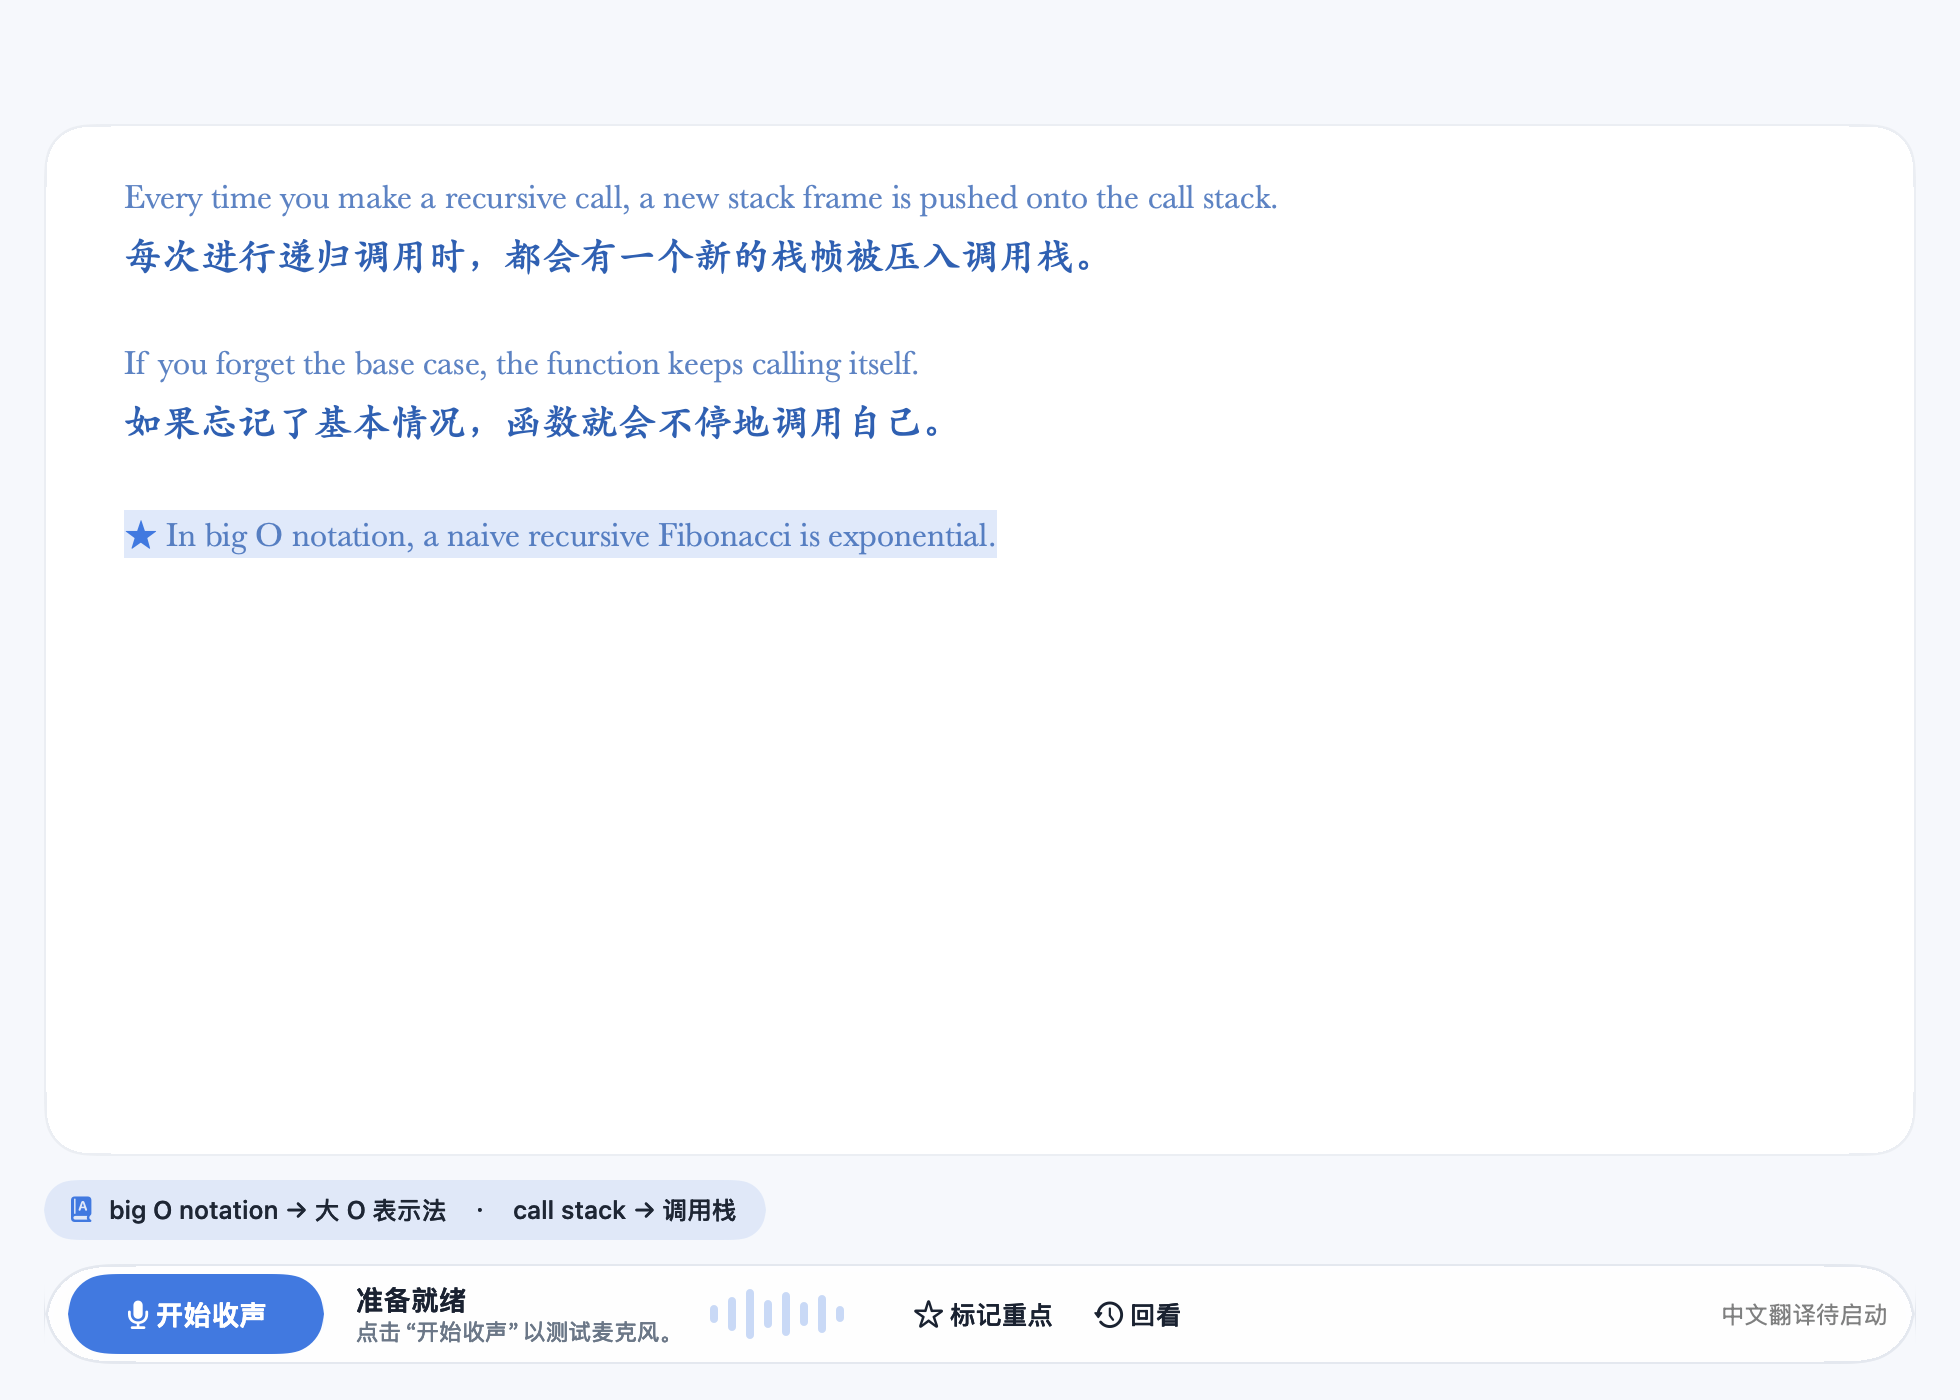
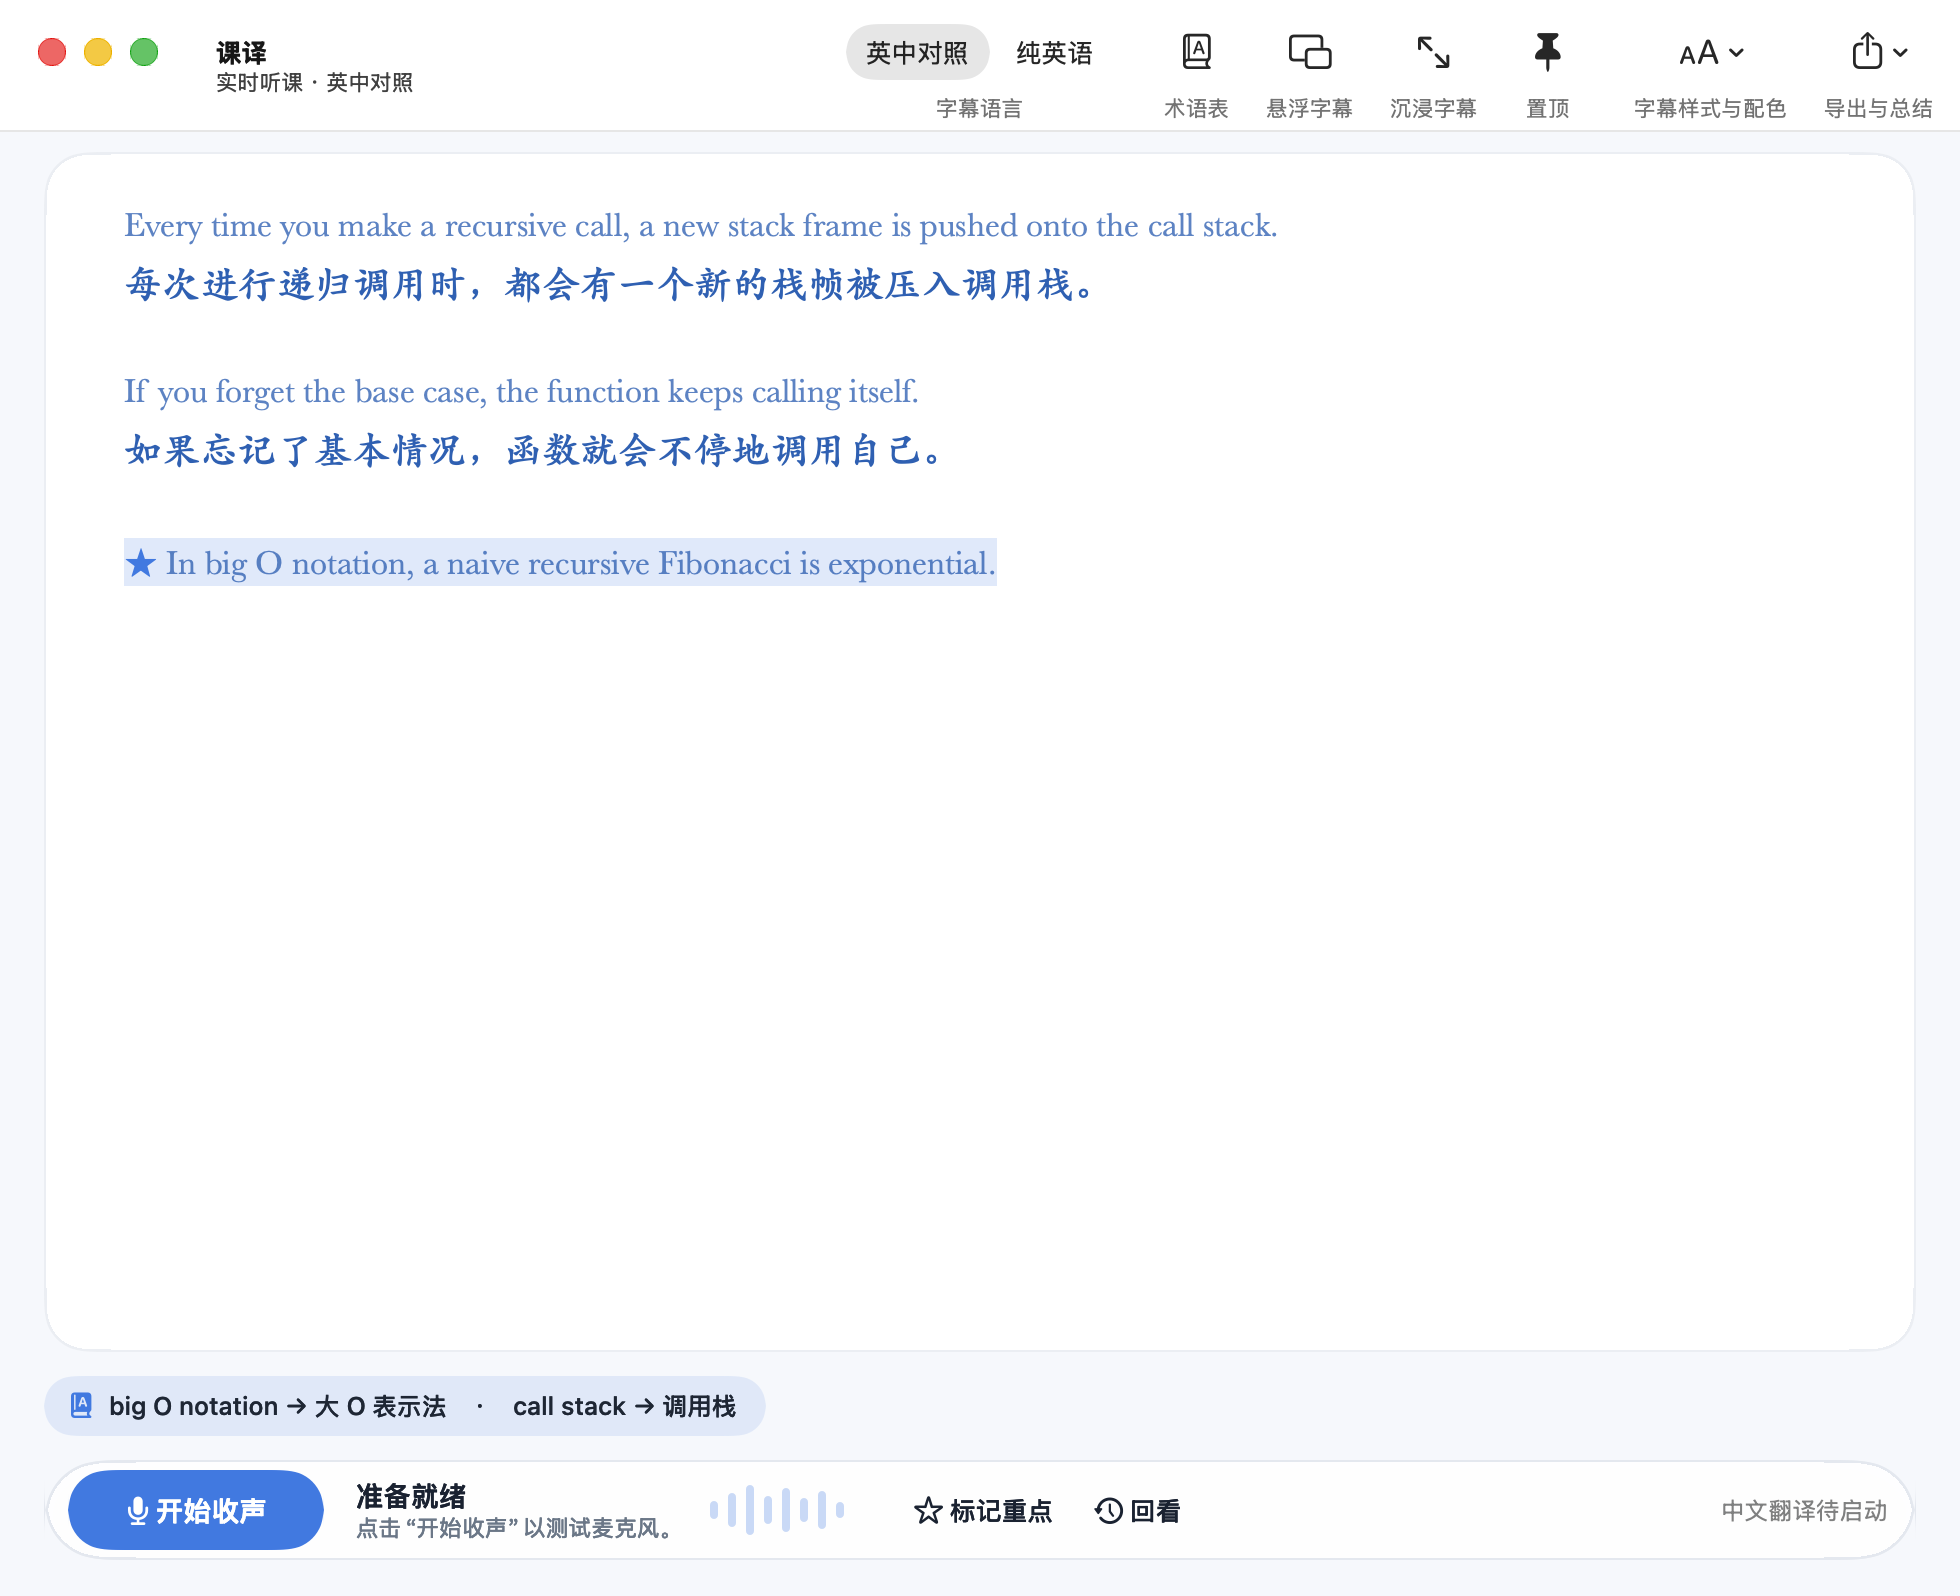
修复主窗口顶部栏不显示：恢复标准标题栏（红黄绿按钮）与工具栏，工具栏显示文字标签；置顶按钮只显示图标

diff --git a/Sources/Main.swift b/Sources/Main.swift
@@ -233,11 +233,11 @@ final class AppDelegate: NSObject, NSApplicationDelegate, NSWindowDelegate, NSMe
 
     private func makeWindow() {
         window = NSWindow(contentRect: NSRect(x: 0, y: 0, width: 980, height: 700),
-                          styleMask: [.titled, .closable, .miniaturizable, .resizable, .fullSizeContentView],
+                          styleMask: [.titled, .closable, .miniaturizable, .resizable],
                           backing: .buffered, defer: false)
         window.title = "课译"
         window.subtitle = "实时听课 · 英中对照"
-        window.titlebarAppearsTransparent = true
+        window.titlebarAppearsTransparent = false
         window.toolbarStyle = .unified
         window.delegate = self
         window.minSize = NSSize(width: 760, height: 520)
@@ -427,7 +427,7 @@ final class AppDelegate: NSObject, NSApplicationDelegate, NSWindowDelegate, NSMe
 
         let toolbar = NSToolbar(identifier: "TingYiMainToolbar")
         toolbar.delegate = self
-        toolbar.displayMode = .iconOnly
+        toolbar.displayMode = .iconAndLabel
         toolbar.allowsUserCustomization = false
         window.toolbar = toolbar
         applyTheme()
@@ -1534,6 +1534,7 @@ final class AppDelegate: NSObject, NSApplicationDelegate, NSWindowDelegate, NSMe
 /// 标题变化时自动换成对应 SF Symbol 的按钮（开始/停止、暂停/继续、回看/回到实时……）。
 final class StateButton: NSButton {
     private var symbols: [String: String] = [:]
+    private var iconOnly = false
     /// 实心胶囊（主操作按钮）的填充色；为 nil 时是无边框的“图标 + 文字”按钮。
     var fillColor: NSColor? { didSet { restyle() } }
     var textColor: NSColor = .labelColor { didSet { restyle() } }
@@ -1541,6 +1542,7 @@ final class StateButton: NSButton {
     convenience init(symbols: [String: String], iconOnly: Bool = false) {
         self.init(frame: .zero)
         self.symbols = symbols
+        self.iconOnly = iconOnly
         isBordered = iconOnly
         bezelStyle = iconOnly ? .toolbar : .regularSquare
         imagePosition = iconOnly ? .imageOnly : .imageLeading
@@ -1550,10 +1552,13 @@ final class StateButton: NSButton {
 
     override var title: String {
         didSet {
+            // 纯图标按钮：只换图标，不显示文字（否则文字会和图标叠在一起）
+            if iconOnly && title.isEmpty { return }
             if let name = symbols[title] {
                 image = NSImage(systemSymbolName: name, accessibilityDescription: title)
             }
             setAccessibilityLabel(title)
+            if iconOnly { super.title = ""; return }
             restyle()
         }
     }
